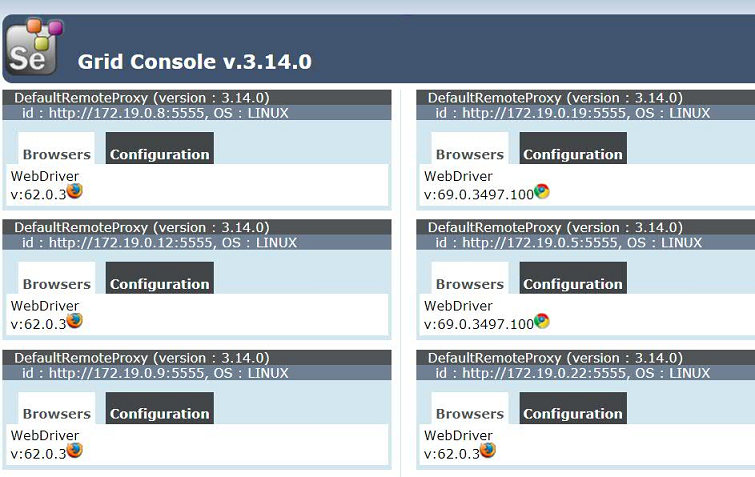
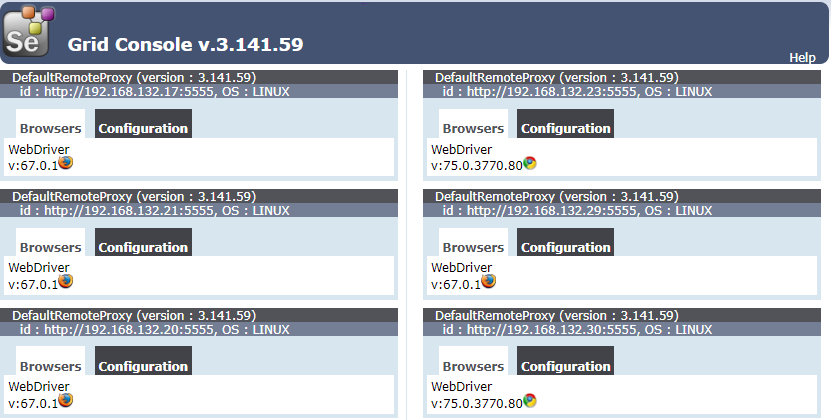
upgrade selenium to v3.141.59

diff --git a/_posts/2018-01-15-installlation-post-installation.md b/_posts/2018-01-15-installlation-post-installation.md
@@ -20,15 +20,15 @@ Below is the reference link for how to setup selenium grid.It includes the detai
 
 **Local installation**
 
-1. Download [Selenium 3.14.0](https://selenium-release.storage.googleapis.com/3.14/selenium-server-standalone-3.14.0.jar)  
+1. Download [Selenium 3.141.59](https://selenium-release.storage.googleapis.com/3.141/selenium-server-standalone-3.141.59.jar)  
 
 2. Download Selenium web drivers and put them under the same folder of the Selenium Jar file.
 
-	- [IE Driver](http://selenium-release.storage.googleapis.com/3.14/IEDriverServer_Win32_3.14.0.zip)
-	- [Firefox Driver Win64](https://github.com/mozilla/geckodriver/releases/download/v0.23.0/geckodriver-v0.23.0-win64.zip)
-	- [Firefox Driver Linux64](https://github.com/mozilla/geckodriver/releases/download/v0.23.0/geckodriver-v0.23.0-linux64.tar.gz)
-	- [Chrome Driver Win32](https://chromedriver.storage.googleapis.com/2.41/chromedriver_win32.zip)  
-	- [Chrome Driver Linux64](https://chromedriver.storage.googleapis.com/2.41/chromedriver_linux64.zip) 
+	- [IE Driver](https://selenium-release.storage.googleapis.com/3.14/IEDriverServer_x64_3.14.0.zip)
+	- [Firefox Driver Win64](https://github.com/mozilla/geckodriver/releases/download/v0.24.0/geckodriver-v0.24.0-win64.zip)
+	- [Firefox Driver Linux64](https://github.com/mozilla/geckodriver/releases/download/v0.24.0/geckodriver-v0.24.0-linux64.tar.gz)
+	- [Chrome Driver Win32](https://chromedriver.storage.googleapis.com/75.0.3770.140/chromedriver_win32.zip)  
+	- [Chrome Driver Linux64](https://chromedriver.storage.googleapis.com/75.0.3770.140/chromedriver_linux64.zip) 
    
 3. Start the Hub
 
@@ -52,7 +52,7 @@ Below is the reference link for how to setup selenium grid.It includes the detai
 		```
 	- Run the command
 		```
-		java -jar selenium-server-standalone-3.14.0.jar -role hub -hubConfig hubconfig.json
+		java -jar selenium-server-standalone-3.141.59.jar -role hub -hubConfig hubconfig.json
 		```
 
 4. Start the Node  
@@ -104,7 +104,7 @@ Below is the reference link for how to setup selenium grid.It includes the detai
 		```
 	- Run the command
 		```
-		java -jar selenium-server-standalone-3.14.0.jar -role node -nodeConfig nodeconfig.json
+		java -jar selenium-server-standalone-3.141.59.jar -role node -nodeConfig nodeconfig.json
 		```
 
 **Docker installation**
@@ -116,22 +116,22 @@ The followingThe below link is shows a step-by-step introduction to using the of
 You can follow below script to install Selenium Hub and Node on docker.We recommand you to install debug image version so you can visually see what the browser is doing.
 
 ``` 
-docker pull selenium/hub:3.14.0-gallium    
-docker pull selenium/node-firefox:3.14.0 
-docker pull selenium/node-chrome:3.14.0   
+docker pull selenium/hub:3.141.59-palladium    
+docker pull selenium/node-firefox:3.141.59-palladium
+docker pull selenium/node-chrome:3.141.59-palladium   
 
 
 docker network create grid
-docker run -d -p 4444:4444 --net grid --name selenium-hub selenium/hub:3.14.0-gallium    
-docker run -d -P --net grid -e HUB_HOST=selenium-hub  -v /dev/shm:/dev/shm selenium/node-chrome:3.14.0
-docker run -d -P --net grid -e HUB_HOST=selenium-hub  -v /dev/shm:/dev/shm selenium/node-firefox:3.14.0 
+docker run -d -p 4444:4444 --net grid --name selenium-hub selenium/hub:3.141.59-palladium    
+docker run -d -P --net grid -e HUB_HOST=selenium-hub  -v /dev/shm:/dev/shm selenium/node-chrome:3.141.59-palladium
+docker run -d -P --net grid -e HUB_HOST=selenium-hub  -v /dev/shm:/dev/shm selenium/node-firefox:3.141.59-palladium
 
 ``` 
 You can do the below command mutiple times,it will create mutiple chrome/firefox node for the grid remote testing. It can provide you to run the  selenium tesing parallel in the Grid.We recommand you to create above  5 node number for chrome/firefox each.   
 
 ``` 
-docker run -d -P --net grid -e HUB_HOST=selenium-hub  -v /dev/shm:/dev/shm selenium/node-chrome:3.14.0 
-docker run -d -P --net grid -e HUB_HOST=selenium-hub  -v /dev/shm:/dev/shm selenium/node-firefox:3.14.0 
+docker run -d -P --net grid -e HUB_HOST=selenium-hub  -v /dev/shm:/dev/shm selenium/node-chrome:3.141.59-palladium
+docker run -d -P --net grid -e HUB_HOST=selenium-hub  -v /dev/shm:/dev/shm selenium/node-firefox:3.141.59-palladium 
 
 ``` 
 After that you can open the browser http://dockerhostIP:4444/grid/console to check selenium grid/node  installation status.    
